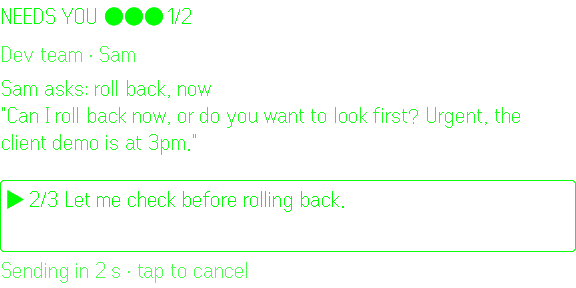
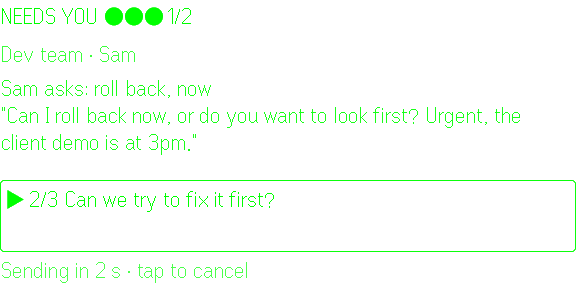
Review fixes: admins-only /watch, no lost sends, mic closed on a lost claim
From an independent review of the teams change:
- /watch now requires a group admin (getChatMember), so a client in the
  group can't join the team, read its drafts or close cards by talking;
- a send that never finishes (Worker died, Telegram silent) no longer hides
  the card for the whole team: after 60 s it comes back flagged
  'Check: may be sent'; a refused send never leaves two open cards;
- a 409 for your own earlier send no longer reads as 'a teammate took it'
  (ids compared, not first names); in-flight sends name who is answering;
- the glasses mic is closed when a claim is refused mid-dictation;
- a card replaced by newer messages reloads the queue instead of staying;
- the triage lock lasts longer than any triage run and is only released
  by its holder.

tests/tg-mock.mjs stands in for the Bot API, so tests/e2e.mjs now checks
what the bot really sends: the signature, threading, the business send and
a refused send. 80 unit tests, 30 end-to-end steps.

Claude-Session: https://claude.ai/code/session_012Tw2ZKPeKarATSuxYrmJb6

Changed region(s): [[0.125, 0.6562, 0.5938, 0.7188]]

diff --git a/worker/src/index.ts b/worker/src/index.ts
@@ -194,7 +194,7 @@ async function refreshCards(env: Env, user: User): Promise<void> {
   try {
     await triageAndStore(env, user, threads)
   } finally {
-    await env.DB.batch(threads.map(t => env.DB.prepare('DELETE FROM counters WHERE key = ?').bind(`triage-lock:${t.chatId}`)))
+    await env.DB.batch(threads.map(t => env.DB.prepare('DELETE FROM counters WHERE key = ? AND expires_at = ?').bind(`triage-lock:${t.chatId}`, lockUntil(t))))
   }
 }
 
@@ -203,6 +203,10 @@ async function refreshCards(env: Env, user: User): Promise<void> {
  * triaged, and a thread is kept only if its messages are still untriaged once the lock is ours, so a thread is
  * triaged once and the card someone is looking at is never replaced by a duplicate.
  */
+const LOCK_MS = 5 * 60_000 // longer than any triage run (OpenRouter times out at 40 s, then Workers AI, then the heuristic)
+const lockExpiry = new WeakMap<Thread, number>()
+const lockUntil = (t: Thread) => lockExpiry.get(t) ?? 0
+
 async function lockThreads(env: Env, threads: Thread[]): Promise<Thread[]> {
   const now = Date.now()
   const mine: Thread[] = []
@@ -211,13 +215,17 @@ async function lockThreads(env: Env, threads: Thread[]): Promise<Thread[]> {
     const got = await env.DB.prepare(
       `INSERT INTO counters (key, n, expires_at) VALUES (?, 1, ?)
        ON CONFLICT(key) DO UPDATE SET n = 1, expires_at = excluded.expires_at WHERE counters.expires_at <= ?`,
-    ).bind(key, now + 90_000, now).run()
+    ).bind(key, now + LOCK_MS, now).run()
     if (!got.meta?.changes) continue
     const ids = t.messageIds
     const left = await env.DB.prepare(`SELECT COUNT(*) AS n FROM messages WHERE triaged = 0 AND id IN (${ids.map(() => '?').join(',')})`)
       .bind(...ids).first<{ n: number }>()
-    if (left?.n === ids.length) mine.push(t)
-    else await env.DB.prepare('DELETE FROM counters WHERE key = ?').bind(key).run()
+    if (left?.n === ids.length) {
+      lockExpiry.set(t, now + LOCK_MS)
+      mine.push(t)
+    } else {
+      await env.DB.prepare('DELETE FROM counters WHERE key = ? AND expires_at = ?').bind(key, now + LOCK_MS).run()
+    }
   }
   return mine
 }
@@ -247,7 +255,18 @@ async function triageAndStore(env: Env, user: User, threads: Thread[]): Promise<
   await env.DB.batch(stmts)
 }
 
+/** How long a send may stay in flight before the card is given back (the Worker died, or Telegram never answered). */
+const SEND_STUCK_MS = 60_000
+
 async function queue(env: Env, user: User) {
+  // A send that never finished: the reply may or may not have reached Telegram, so the card comes back flagged
+  // instead of disappearing for the whole team. If newer messages already made a fresh card, the old one is dropped.
+  await env.DB.prepare(
+    `UPDATE cards SET handled_by = NULL, updated_at = ?,
+       status = CASE WHEN chat_id IN (SELECT chat_id FROM cards WHERE status = 'open') THEN 'replaced' ELSE 'open' END,
+       summary = 'Check: may be sent · ' || summary
+     WHERE status = 'sending' AND updated_at < ?`,
+  ).bind(Date.now(), Date.now() - SEND_STUCK_MS).run()
   await refreshCards(env, user)
   const rows = await env.DB.prepare(
     `SELECT k.*, c.title, cl.user_id AS claim_user, cu.name AS claim_name FROM cards k
@@ -277,14 +296,14 @@ async function queue(env: Env, user: User) {
 /** A card in a chat this user watches, in any status (so a teammate can be told who handled it). */
 async function memberCard(env: Env, user: User, id: string) {
   return env.DB.prepare(
-    `SELECT k.id, k.chat_id, k.reply_to, k.snippet, k.status, c.is_demo, c.title, c.business_connection_id, h.name AS handled_name FROM cards k
+    `SELECT k.id, k.chat_id, k.reply_to, k.snippet, k.status, k.handled_by, c.is_demo, c.title, c.business_connection_id, h.name AS handled_name FROM cards k
      JOIN chats c ON c.chat_id = k.chat_id
      JOIN chat_members cm ON cm.chat_id = k.chat_id AND cm.user_id = ?
      LEFT JOIN users h ON h.id = k.handled_by
      WHERE k.id = ?`,
   ).bind(user.id, id).first<{
     id: string; chat_id: string; reply_to: number; snippet: string; status: string; is_demo: number; title: string
-    business_connection_id: string | null; handled_name: string | null
+    business_connection_id: string | null; handled_by: number | null; handled_name: string | null
   }>()
 }
 
@@ -362,6 +381,14 @@ async function onTelegram(env: Env, update: unknown): Promise<void> {
       ).bind(u.fromId).first<{ id: number; name: string }>()
       if (u.command === 'watch') {
         if (!owner) return reply(env, u.chatId, 'Pair the Glance Desk app first: send /start to me in a private chat.')
+        // Only group admins can add Glance Desk, so a client in the group can't join the team, read its drafts
+        // or close cards with their own messages.
+        if (!env.TG_TOKEN) return
+        const member = await tgCall(env.TG_TOKEN, 'getChatMember', { chat_id: u.chatId, user_id: Number(u.fromId) }, env.TG_API ?? TG_API)
+        const status = (member.result as { status?: string } | undefined)?.status
+        if (!member.ok || (status !== 'creator' && status !== 'administrator')) {
+          return reply(env, u.chatId, 'Only group admins can add Glance Desk to this chat with /watch.')
+        }
         // The first person to /watch creates the chat; teammates who /watch later join it and share its cards.
         await env.DB.batch([
           env.DB.prepare('INSERT OR IGNORE INTO chats (chat_id, user_id, title, is_demo, created_at) VALUES (?, ?, ?, 0, ?)')
@@ -560,11 +587,12 @@ async function handle(req: Request, env: Env): Promise<Response> {
   if (m && req.method === 'POST') {
     const card = await memberCard(env, user, m[1])
     if (!card) return err(404, 'Card not found or already handled')
-    if (card.status === 'sent' || card.status === 'done') {
-      const who = card.handled_name ? firstName(card.handled_name) : ''
-      const mine = who === firstName(user.name)
-      const verb = card.status === 'sent' ? 'already answered' : 'already handled this'
-      return json({ error: who && !mine ? `${who} ${verb}` : 'Already handled', by: who }, 409)
+    if (card.status === 'sent' || card.status === 'done' || card.status === 'sending') {
+      // Compare ids, not names: two teammates can share a first name.
+      const other = card.handled_by !== null && card.handled_by !== user.id
+      const who = other && card.handled_name ? firstName(card.handled_name) : ''
+      const verb = card.status === 'done' ? 'already handled this' : card.status === 'sending' ? 'is answering' : 'already answered'
+      return json({ error: who ? `${who} ${verb}` : 'Already handled', by: who }, 409)
     }
     if (card.status !== 'open') return err(404, 'Card not found or already handled')
     // Every action on a card first takes the thread, so two teammates never answer the same client.
@@ -595,12 +623,21 @@ async function handle(req: Request, env: Env): Promise<Response> {
       // Mark the card before talking to Telegram: only one request can win this update.
       const won = await env.DB.prepare("UPDATE cards SET status = 'sending', handled_by = ?, updated_at = ? WHERE id = ? AND status = 'open'")
         .bind(user.id, now, card.id).run()
-      if (!won.meta?.changes) return err(409, 'Already being answered')
+      if (!won.meta?.changes) {
+        const by = await env.DB.prepare('SELECT u.name FROM cards k JOIN users u ON u.id = k.handled_by WHERE k.id = ?').bind(card.id).first<{ name: string }>()
+        const who = by ? firstName(by.name) : ''
+        return json({ error: who ? `${who} is answering ${card.title}` : 'Already being answered', by: who }, 409)
+      }
       if (!card.is_demo) {
         const target = { chatId: card.chat_id, businessConnectionId: card.business_connection_id }
         const res = await tgCall(env.TG_TOKEN!, 'sendMessage', outgoing(target, text, user.name, card.reply_to), env.TG_API ?? TG_API)
         if (!res.ok) {
-          await env.DB.prepare("UPDATE cards SET status = 'open', handled_by = NULL WHERE id = ?").bind(card.id).run()
+          // Give the card back, unless newer messages already produced a fresh card for this chat.
+          await env.DB.prepare(
+            `UPDATE cards SET handled_by = NULL,
+               status = CASE WHEN chat_id IN (SELECT chat_id FROM cards WHERE status = 'open') THEN 'replaced' ELSE 'open' END
+             WHERE id = ?`,
+          ).bind(card.id).run()
           return err(502, `Telegram: ${res.description ?? 'error'}`)
         }
       }

diff --git a/app/src/main.ts b/app/src/main.ts
@@ -109,6 +109,7 @@ async function refresh(): Promise<void> {
   try {
     const keep = current(state)?.id
     let next = loaded(state, await api.queue(token))
+    for (const id of [...claimedAt.keys()]) if (!next.cards.some(c => c.id === id)) claimedAt.delete(id)
     const i = keep ? next.cards.findIndex(c => c.id === keep) : -1
     if (i > 0) next = { ...next, index: i }
     set(next)
@@ -127,11 +128,18 @@ async function refresh(): Promise<void> {
 function lose(cardId: string, e: ApiError): void {
   const card = state.cards.find(c => c.id === cardId)
   if (!card) return
-  if (armTimer !== null && current(state)?.id === cardId) {
-    clearTimeout(armTimer)
-    armTimer = null
+  if (current(state)?.id === cardId) {
+    if (armTimer !== null) {
+      clearTimeout(armTimer)
+      armTimer = null
+    }
+    // The claim can be refused while the wearer is still holding to dictate: close the mic before dropping the card.
+    if (state.mode === 'listening') {
+      recorder.stop()
+      void bridge.audioControl(false)
+    }
   }
-  set(takenAway(state, cardId, e.by || 'A teammate', card.chatTitle))
+  set(takenAway(state, cardId, e.by, card.chatTitle))
 }
 
 const isTaken = (e: unknown): e is ApiError => e instanceof ApiError && e.status === 409
@@ -172,6 +180,11 @@ async function run(effect: Effect): Promise<void> {
         if (isTaken(e)) {
           set({ ...state, mode: 'card' })
           lose(effect.cardId, e)
+        } else if (e instanceof ApiError && e.status === 404) {
+          // The card was replaced by newer messages in the same chat: reload rather than keep a dead card.
+          set({ ...state, mode: 'loading', message: '' })
+          await refresh()
+          set({ ...state, message: 'New messages: card updated' })
         } else {
           set(sendResult(state, false, errorText(e)))
         }

diff --git a/app/src/core/desk.ts b/app/src/core/desk.ts
@@ -122,13 +122,15 @@ export function sendResult(s: DeskState, ok: boolean, message = '', signedAs = '
 /**
  * A teammate took (or already answered) this thread: drop the card wherever it is.
  * If it was on screen, any pending send is abandoned and the next card is shown from its first draft.
+ * `by` is empty when the thread was handled by this same person elsewhere (their phone, an earlier send).
  */
 export function takenAway(s: DeskState, cardId: string, by: string, chatTitle: string): DeskState {
   const at = s.cards.findIndex(c => c.id === cardId)
   if (at < 0) return s
-  const taken = [...s.taken.filter(t => t.chatTitle !== chatTitle), { chatTitle, by }]
+  const others = s.taken.filter(t => t.chatTitle !== chatTitle)
+  const taken = by ? [...others, { chatTitle, by }] : others
   const cards = s.cards.filter((_, i) => i !== at)
-  const message = `${by} took ${chatTitle}`
+  const message = by ? `${by} took ${chatTitle}` : `Already handled: ${chatTitle}`
   if (at !== s.index) return { ...s, cards, index: at < s.index ? s.index - 1 : s.index, taken }
   return { ...s, cards, index: 0, choice: 0, mode: cards.length ? 'card' : 'empty', message, taken }
 }

diff --git a/tests/desk.test.ts b/tests/desk.test.ts
@@ -217,3 +217,11 @@ test('a successful send remembers whose name signed it', () => {
   const [sending] = armExpired(tap(s)[0])
   assert.match(sendResult(sending, true, '', 'Alfredo').message, /Sent to Ops\n— Alfredo/)
 })
+
+test('a card already handled by you elsewhere is dropped without blaming a teammate', () => {
+  const s = loaded(initialState(), { cards: [card('a'), card('b')], quietCount: 0 })
+  const after = takenAway(s, 'a', '', 'Ops')
+  assert.deepEqual(after.cards.map(c => c.id), ['b'])
+  assert.deepEqual(after.taken, [])
+  assert.match(after.message, /Already handled: Ops/)
+})
